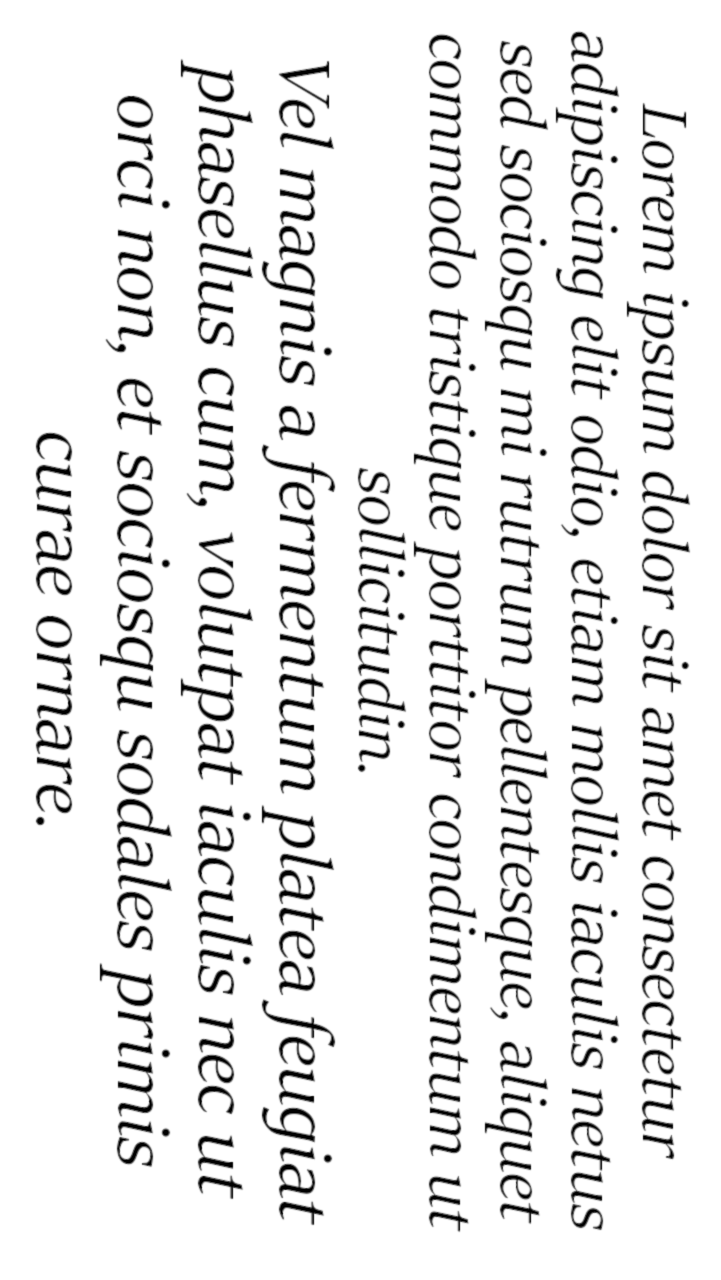
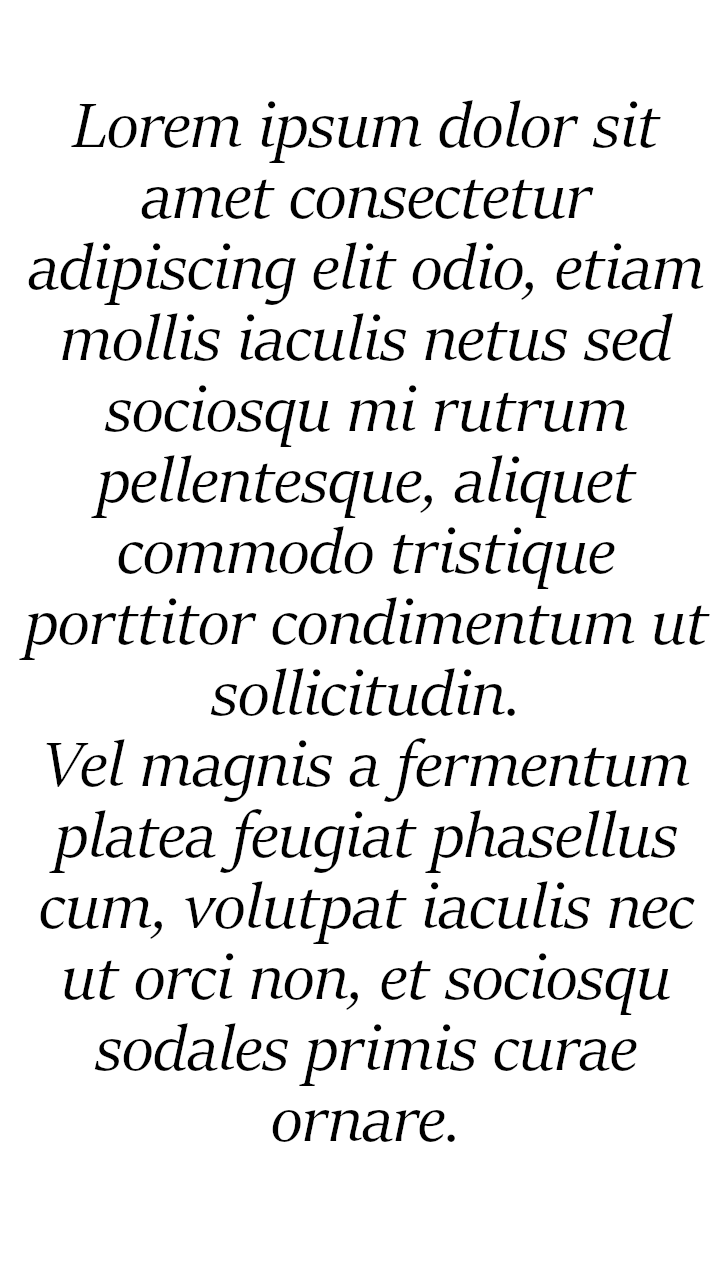
se regresa el cambio a pantallas verticales y horizontales

Changed region(s): [[0.0306, 0.0, 0.9778, 0.9688]]

diff --git a/index.html b/index.html
@@ -14,12 +14,10 @@ var inicio1;
 var inicio2;
 var inicio3;
 var inicio4;
-var numero = 2;
+var numero = 1;
 var validadorFrame = 1;
 var orientacionAnt = 0; //0 vertical / 1 horizontal
 var orientacionAct = 0;
-
-/*
 if('connection' in navigator){
  if(navigator.connection.saveData){
   alert('ahorro activado');
@@ -27,7 +25,6 @@ if('connection' in navigator){
   alert('ahorro desactivado');
  }
 }
-*/
 function inicio(){
 	inicio = document.getElementById("inicio");
     inicio1 = document.getElementById("inicio1");
@@ -36,24 +33,17 @@ function inicio(){
     inicio4 = document.getElementById("inicio4");
 	
 	inicio.src = "iniciov.png";
-	inicio1.src = "inicio4v.png";
-	inicio2.src = "inicio1v.png";
-	inicio3.src = "inicio2v.png";
-	inicio4.src = "inicio3v.png";
-
-	
+	inicio1.src = "inicio1v.png";
+	inicio2.src = "inicio2v.png";
+	inicio3.src = "inicio3v.png";
+	inicio4.src = "inicio4v.png";
+	mostrarSlide();
 	requestAnimationFrame(validarOrientacion);
-	//requestAnimationFrame(agrandar);
+	requestAnimationFrame(agrandar);
 	requestAnimationFrame(init);
 	
-
 }
-
 function mostrarSlide(){
-
-	
-
-
 	if(numero == 1){
 		inicio.style.display="block";
 		inicio1.style.display="block";
@@ -82,17 +72,15 @@ function mostrarSlide(){
 		inicio3.style.display="none";
 		inicio4.style.display="block";
 	}
-	if(numero == 5){
-		ocultarInicio();
-	}
-	if(numero < 5){
+	if(numero < 4){
 		setTimeout(function(){
 			numero++;
 			mostrarSlide(numero)
 		},8000);
+		
+		
 	}
 }
-
 function validarOrientacion(){
     
 	orientacionAct = window.innerHeight > window.innerWidth ? 0 : 1;
@@ -100,16 +88,16 @@ function validarOrientacion(){
     if( orientacionAct != orientacionAnt){
 		if(orientacionAct == 0){
 			inicio.src = "iniciov.png";
-			inicio1.src = "inicio4v.png";
-			inicio2.src = "inicio1v.png";
-			inicio3.src = "inicio2v.png";
-			inicio4.src = "inicio3v.png";
+			inicio1.src = "inicio1v.png";
+			inicio2.src = "inicio2v.png";
+			inicio3.src = "inicio3v.png";
+			inicio4.src = "inicio4v.png";
 		}else{
 			inicio.src = "inicioh.png";
-			inicio1.src = "inicio4h.png";
-			inicio2.src = "inicio1h.png";
-			inicio3.src = "inicio2h.png";
-			inicio4.src = "inicio3h.png";
+			inicio1.src = "inicio1h.png";
+			inicio2.src = "inicio2h.png";
+			inicio3.src = "inicio3h.png";
+			inicio4.src = "inicio4h.png";
 		}
 		inicio.style.width = "100%";
 		inicio.style.height = "100%";
@@ -137,7 +125,6 @@ function validarOrientacion(){
 	
 	requestAnimationFrame(validarOrientacion);
 }
-
 function ocultarInicio(){
 	inicio.style.display="none";
 	inicio1.style.display="none";
@@ -147,7 +134,6 @@ function ocultarInicio(){
 	openFullscreen();
 	
 }
-
 function agrandar(){
 	var width;
 	var height;
@@ -199,20 +185,6 @@ function agrandar(){
 			inicio3.style.top = top + 'px';
 			
 		}
-		if (numero == 4){
-			width = parseInt(inicio4.width, 10) + incremento;
-			height = parseInt(inicio4.height, 10) + incremento;
-			rect = inicio4.getBoundingClientRect();
-			left = rect.left - incremento;
-			top = rect.top - incremento;
-			
-			//alert(width);
-			inicio4.style.width = width + 'px';
-			inicio4.style.height = height + 'px';
-			inicio4.style.left = left + 'px';
-			inicio4.style.top = top + 'px';
-			
-		}
 		
 		
 		
@@ -221,14 +193,11 @@ function agrandar(){
 	}
 	
 	validadorFrame++;
-	if(numero <= 4){
+	if(numero < 4){
 		requestAnimationFrame(agrandar);
 	}
 }
-
 var elem = document.documentElement;
-
-
 /* View in fullscreen */
 function openFullscreen() {
   if (elem.requestFullscreen) {
@@ -241,27 +210,12 @@ function openFullscreen() {
     elem.msRequestFullscreen();
   }
 }
-
-function validarMostrarSlide(){
-	var horizontal = window.innerHeight <= window.innerWidth ;
-	
-	if(horizontal){
-		openFullscreen();
-		mostrarSlide();
-		
-	}
-	
-
-}
-
 </script>
 <script >
-
 async function init(){
 	//////////////////////////////////////////////////////////////////////////////////
 	//		Init v2.0
 	//////////////////////////////////////////////////////////////////////////////////
-
 	// init renderer
 	var mixers = [];
 	var clock = new THREE.Clock();
@@ -277,17 +231,14 @@ async function init(){
 	renderer.domElement.style.top = '0px'
 	renderer.domElement.style.left = '0px'
 	document.body.appendChild( renderer.domElement );
-
 	// array of functions for the rendering loop
 	var onRenderFcts= [];
-
 	// init scene and camera
 	var scene	= new THREE.Scene();
 	scene.scale.set(0.001,0.001,0.001);
 	//////////////////////////////////////////////////////////////////////////////////
 	//		Initialize a basic camera
 	//////////////////////////////////////////////////////////////////////////////////
-
 	// Create a camera
 	var camera = new THREE.Camera();
 	scene.add(camera);
@@ -296,24 +247,19 @@ async function init(){
 	light = new THREE.HemisphereLight( 0xffffff, 0x444444 );
 	light.position.set( 0, 200, 0 );
 	scene.add( light );
-
 	////////////////////////////////////////////////////////////////////////////////
 	//          handle arToolkitSource
 	////////////////////////////////////////////////////////////////////////////////
-
 	var arToolkitSource = new THREEx.ArToolkitSource({
 		// to read from the webcam 
 		sourceType : 'webcam',
-
 		// to read from an image
 		// sourceType : 'image',
 		// sourceUrl : THREEx.ArToolkitContext.baseURL + '../data/images/img.jpg',		
-
 		// to read from a video
 		// sourceType : 'video',
 		// sourceUrl : THREEx.ArToolkitContext.baseURL + '../data/videos/headtracking.mp4',		
 	})
-
 	arToolkitSource.init(function onReady(){
 		onResize()
 	})
@@ -333,7 +279,6 @@ async function init(){
 	//          initialize arToolkitContext
 	////////////////////////////////////////////////////////////////////////////////
 	
-
 	// create atToolkitContext
 	var arToolkitContext = new THREEx.ArToolkitContext({
 		cameraParametersUrl:  'camera_para.dat',
@@ -347,7 +292,6 @@ async function init(){
 		// copy projection matrix to camera
 		camera.projectionMatrix.copy( arToolkitContext.getProjectionMatrix() );
 	})
-
 	// update artoolkit on every frame
 	onRenderFcts.push(function(){
 		if( arToolkitSource.ready === false )	return
@@ -383,17 +327,13 @@ async function init(){
 	//////////////////////////////////////////////////////////////////////////////////
 	//		add an object in the scene
 	//////////////////////////////////////////////////////////////////////////////////
-
 	var arWorldRoot = smoothedRoot
-
 	var textureLoader = new THREE.TextureLoader();
 	var map = textureLoader.load('pixietodo.jpg');
 	var material = new THREE.MeshPhongMaterial({map: map});
-
 	
 	var loader = new THREE.FBXLoader();
 	loader.load( 'prueba13.fbx', function ( object ) {
-
 		object.mixer = new THREE.AnimationMixer( object );
 		mixers.push( object.mixer );
 		
@@ -413,7 +353,6 @@ async function init(){
 		cortina.setAttribute("style", "display:none");
 		//alert("cargado");
 		//scene.add( object );
-
 	} );
 	onRenderFcts.push(function(){
 		if ( mixers.length > 0 ) {
@@ -443,7 +382,6 @@ async function init(){
 	onRenderFcts.push(function(){
 		renderer.render( scene, camera );
 	})
-
 	// run the rendering loop
 	var lastTimeMsec= null
 	requestAnimationFrame(function animate(nowMsec){
@@ -461,15 +399,14 @@ async function init(){
 	animate();
 	
 }
-
 </script>
 
 <body style='margin : 0px; overflow: hidden; font-family: Monospace;' onload="inicio();">
 <img id="inicio" style="display:block;width:100%;height:100%;position:absolute;top:0;left:0;z-index:49;" src="iniciov.png"/>
-<img id="inicio1" style="display:block;width:100%;height:100%;position:absolute;top:0;left:0;z-index:50;" src="inicio4v.png" onClick="validarMostrarSlide();agrandar();"/>
-<img id="inicio2" style="display:none;width:100%;height:100%;position:absolute;top:0;left:0;z-index:50;"/>
-<img id="inicio3" style="display:none;width:100%;height:100%;position:absolute;top:0;left:0;z-index:50;"/>
-<img id="inicio4" style="display:none;width:100%;height:100%;position:absolute;top:0;left:0;z-index:50;" />
+<img id="inicio1" style="display:block;width:100%;height:100%;position:absolute;top:0;left:0;z-index:50;" src="inicio1v.png"/>
+<img id="inicio2" style="width:100%;height:100%;position:absolute;top:0;left:0;z-index:50;"/>
+<img id="inicio3" style="width:100%;height:100%;position:absolute;top:0;left:0;z-index:50;"/>
+<img id="inicio4" style="width:100%;height:100%;position:absolute;top:0;left:0;z-index:50;" onClick="ocultarInicio();"/>
 
 <div style='position: absolute; top: 10px; width:100%; text-align: center; z-index: 1;'>
 <iframe src="http://promoespacio.com.mx/TarjetaNavidad/index.html" style="width:0;height:0;border:none;"></iframe>	
